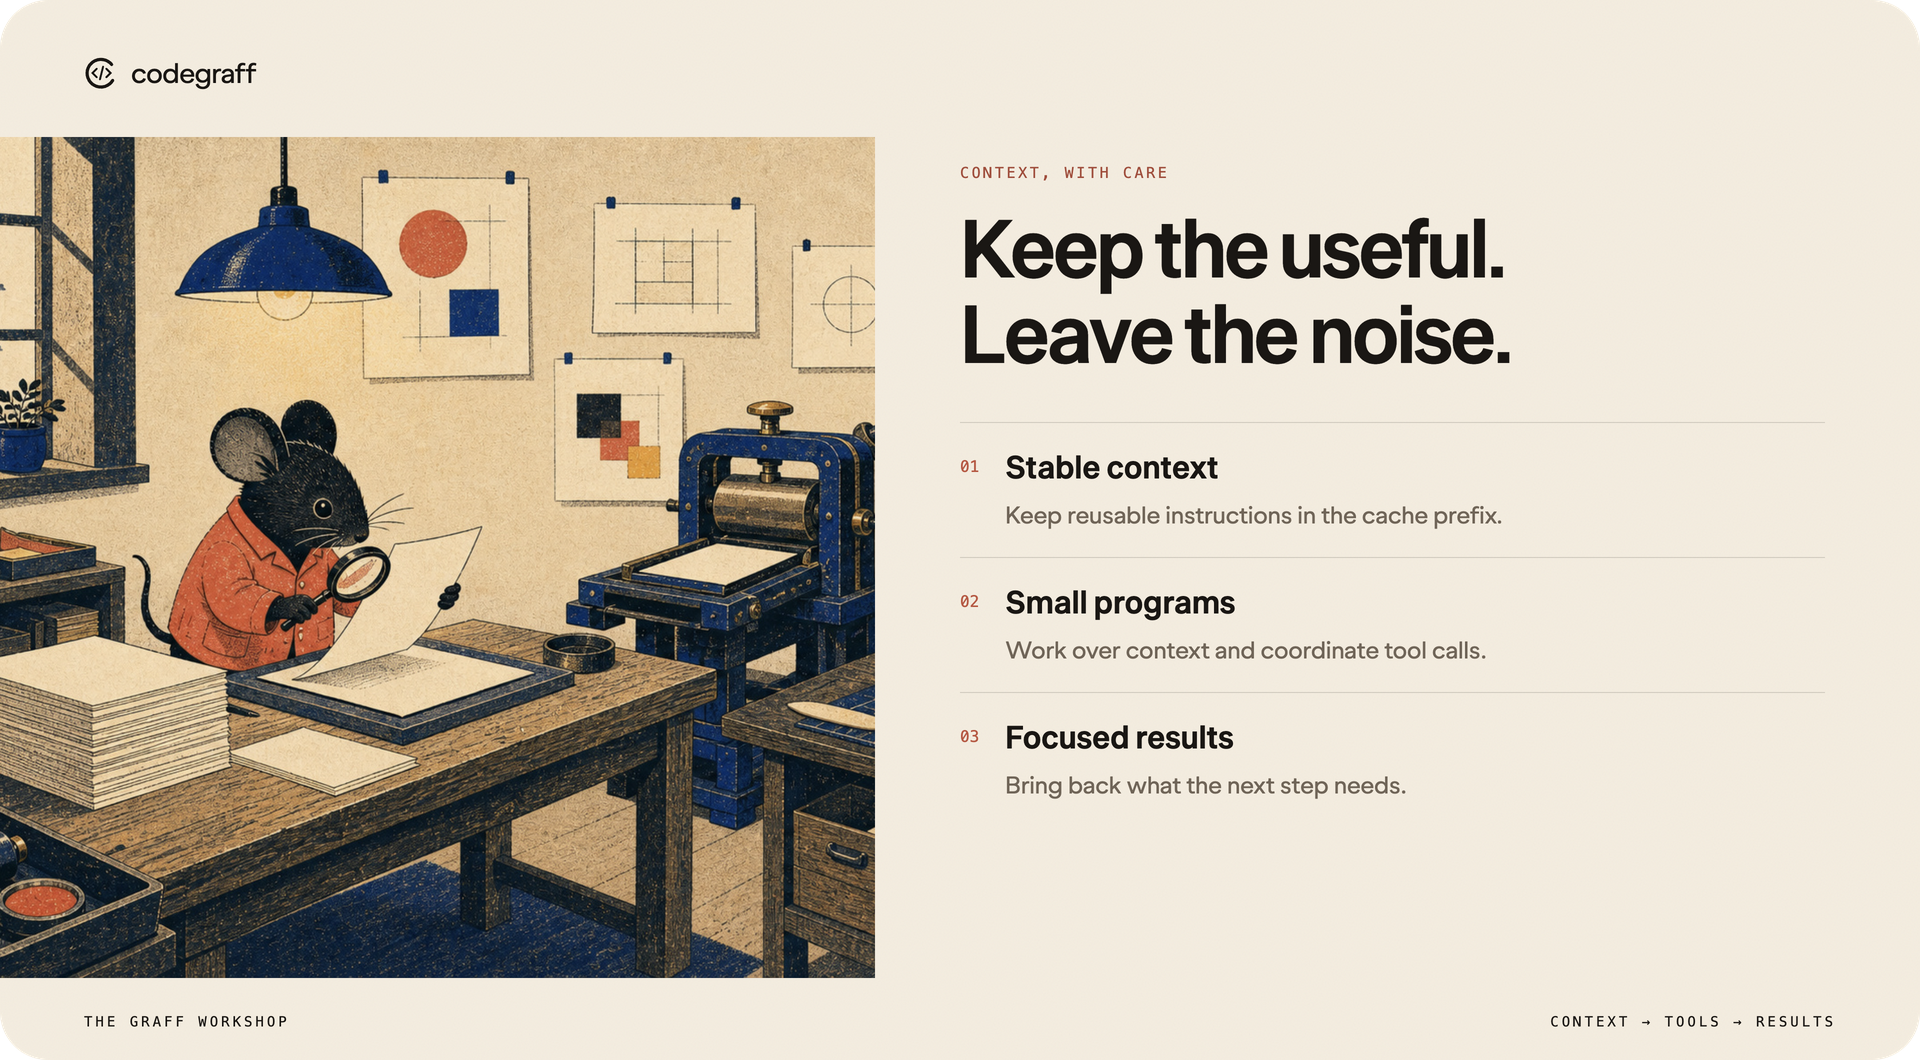
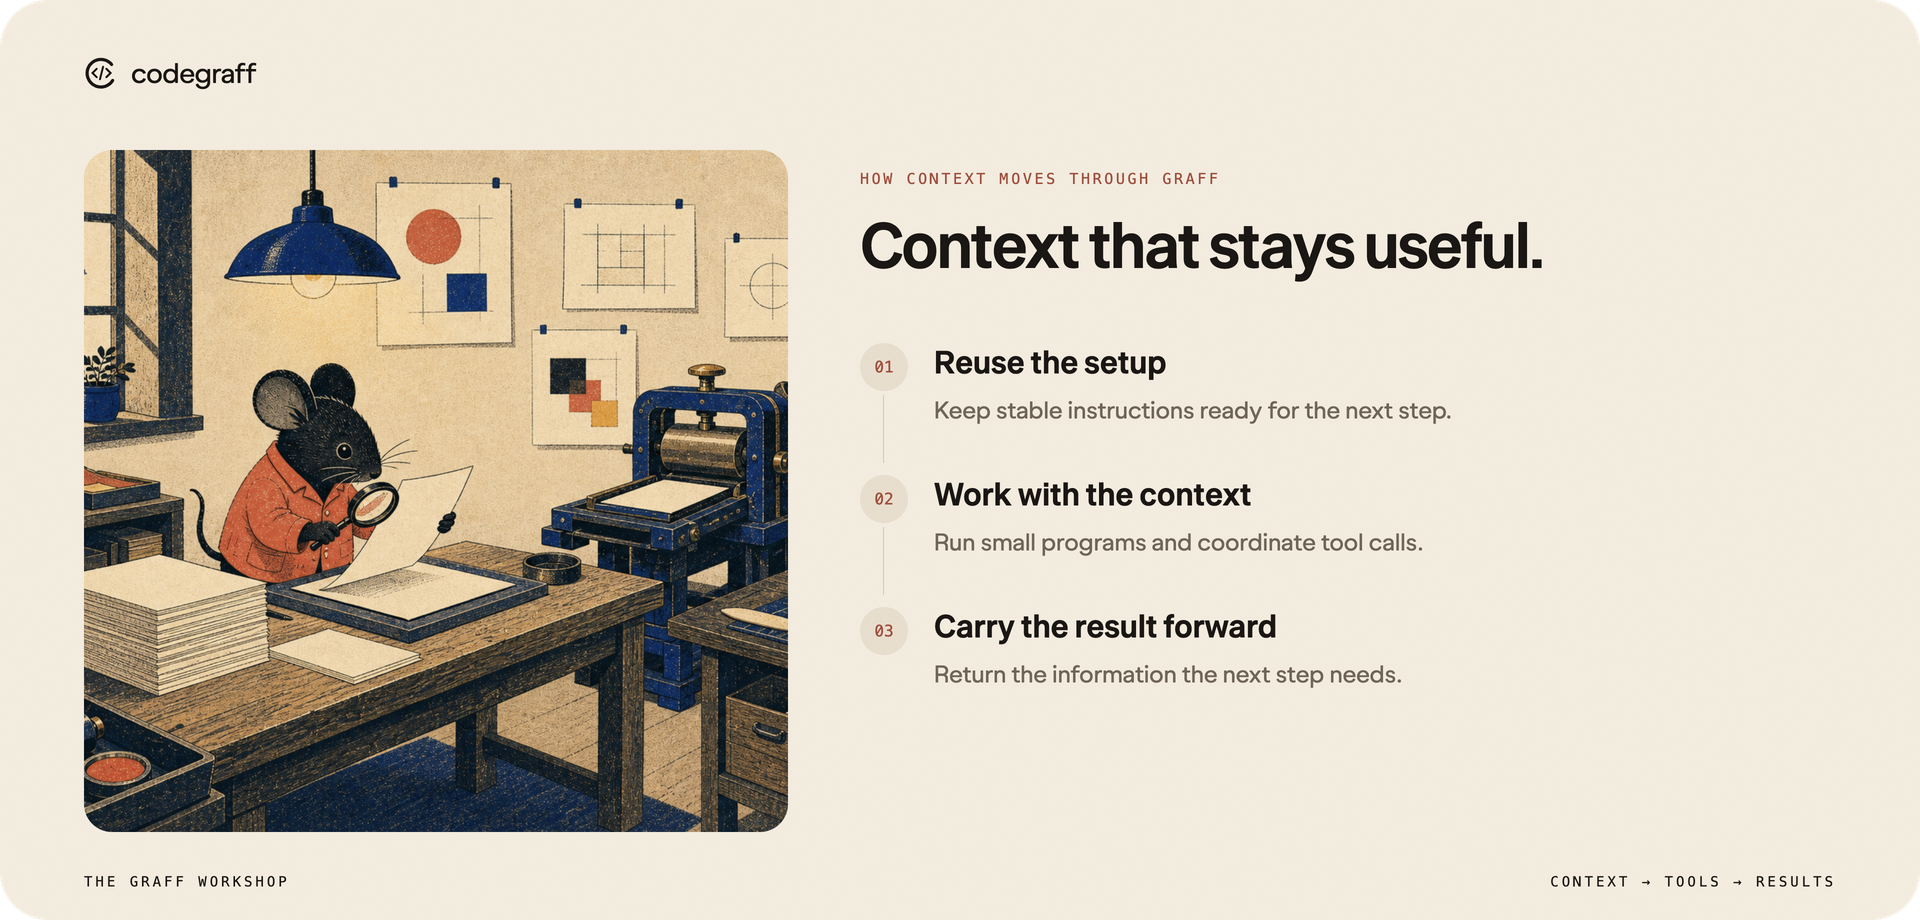
docs: improve context illustration layout and reading flow

Changed region(s): [[0.0, 0.1217, 0.8125, 0.9739], [0.8125, 0.9435, 0.9688, 0.9739], [0.0312, 0.0609, 0.1562, 0.0913]]

diff --git a/docs/media/readme-plates.css b/docs/media/readme-plates.css
@@ -34,9 +34,11 @@ footer { position: absolute; left: 84px; right: 84px; bottom: 43px; display: fle
 .hero-art { position:absolute; top: 0; right: 0; width: 980px; height: 964px; overflow:hidden; border-left: 8px solid #d45a43; }
 .hero-art img { width:100%; height:100%; object-fit:cover; object-position:51% 50%; }
 .hero-bottom { position:absolute; left:84px; bottom:30px; right:84px; display:flex; justify-content:space-between; font: 14px ui-monospace, monospace; letter-spacing:3px; }
-.loop { height:1060px; }.loop .brand small { display:none; }
-.loop-art { position:absolute; left:0; top:137px; bottom:82px; width:875px; overflow:hidden; }
+.loop { height:920px; }.loop .brand small { display:none; }
+.loop-art { position:absolute; left:84px; top:150px; bottom:88px; width:704px; overflow:hidden; border-radius:28px; }
 .loop-art img { width:100%; height:100%; object-fit:cover; object-position:30% center; }
-.loop-copy { position:absolute; left:960px; top:164px; width:865px; }.loop-copy h1 { font-size:82px; margin:25px 0 45px; }
-.loop-copy ol { list-style:none; margin:0; padding:0; }.loop-copy li { display:flex; gap:26px; border-top:1px solid #1b171426; padding:25px 0; }
-.loop-copy li b { color:#c5533d; font:16px ui-monospace,monospace; margin-top:9px; }.loop-copy strong { font: 32px Display, sans-serif; }.loop-copy p { font-size:24px; color:#736557; margin:12px 0 0; line-height:1.4; }
+.loop-copy { position:absolute; left:860px; top:170px; width:976px; }.loop-copy h1 { font-size:64px; letter-spacing:-2px; margin:25px 0 40px; }
+.loop-copy ol { list-style:none; margin:0; padding:0; }.loop-copy li { display:flex; align-items:flex-start; gap:26px; padding:24px 0; position:relative; }
+.loop-copy li:not(:last-child)::after { content:''; position:absolute; left:23px; top:76px; bottom:-12px; width:1px; background:#d9caba; }
+.loop-copy li b { color:#ad4937; background:#ecdfce; border-radius:50%; width:48px; height:48px; display:grid; place-items:center; flex-shrink:0; font:16px ui-monospace,monospace; }
+.loop-copy strong { font:32px Display,sans-serif; }.loop-copy p { font-size:24px; color:#736557; margin:12px 0 0; line-height:1.4; }

diff --git a/README.md b/README.md
@@ -140,12 +140,9 @@ mark, not first model SSE. RSS is ReleaseSafe process peak.)
 On the 3-task spine (exact-reply + file-ops + fix-fib) graff was **19.9s /
 8 calls / $0.048** vs grok 32.3s / 8 / $0.147 and OpenCode 31.2s / 8 / $0.101.
 
-How: a stable prompt-cache prefix, an RLM + spec-ptc loop that programs over
-context instead of pasting it back, and slim tool results (4 KB handles,
-learnt MCP shapes). The learn pin is a **hardlink**, not a 127M copy, and
-`learn init` is detached so `-p` and the REPL share one path. Hosted `x_search`
-stays on (ADR 0031). We do not steal grok-build's heap or a 4-tool catalog
-(ADR 0024).
+Graff carries context through three steps: reuse the stable setup, run small
+programs over the working context, and return focused results. That keeps the
+next step supplied with useful information while reducing repeated input.
 
 <p align="center">
   <img src="docs/images/readme-context-workshop.png" alt="A workshop rat examines a proof: stable context, small programs, and focused results keep useful context in the harness" width="960">
